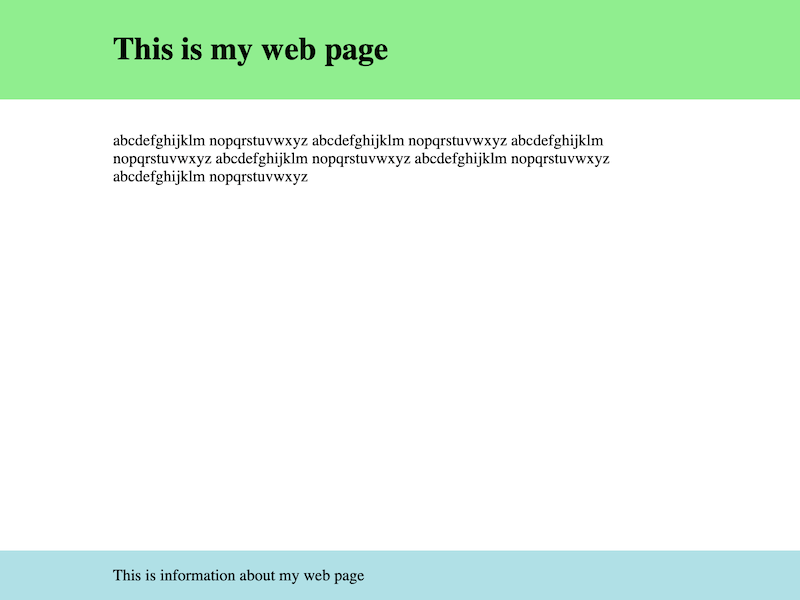
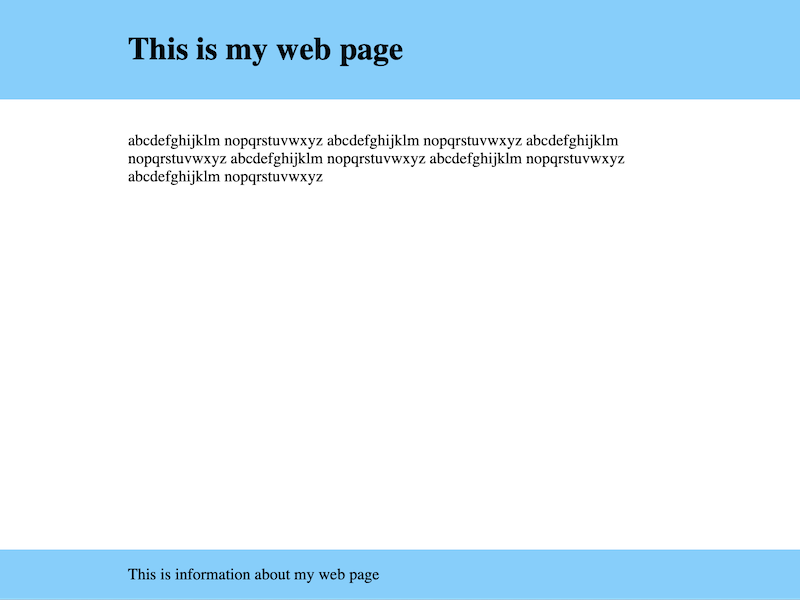
Flesh out the README; expand slightly

Changed region(s): [[0.0, 0.0, 1.0, 0.18], [0.0, 0.9, 1.0, 1.0], [0.125, 0.21, 0.7812, 0.33]]

diff --git a/TEMPLATE.html b/TEMPLATE.html
@@ -12,8 +12,8 @@
 
   <style>
     :root {
-      --header-background-color: LightGreen;
-      --footer-background-color: PowderBlue;
+      --header-background-color: LightSkyBlue;
+      --footer-background-color: LightSkyBlue;
 
       --max-width: 34rem;
       --padding:   1em;
@@ -56,6 +56,11 @@
 
   <main>
     <p>
+      <!--
+        These repeated alphabets are here to help me judge line lengths
+        once I've selected fonts -- I typically aim for between 2½ to 3½
+        alphabets on a line.
+      -->
       abcdefghijklm nopqrstuvwxyz
       abcdefghijklm nopqrstuvwxyz
       abcdefghijklm nopqrstuvwxyz

diff --git a/README.md b/README.md
@@ -1,6 +1,6 @@
 # web-page-template
 
-This is the one-column layout I use as a starting point when I design new web pages.
+This is a template I use as a starting point when I create new HTML pages.
 
 <table>
   <tr>
@@ -8,3 +8,31 @@ This is the one-column layout I use as a starting point when I design new web pa
     <td><img src="screenshot.png"></td>
   </tr>
 </table>
+
+Features:
+
+*   My preferred one-column layout for content, which puts a header/footer at the top and puts the content in the middle.
+*   The standard `<meta>` tags I want on every HTML page.
+*   An example of how to use `<script>` and `<link>` tags to load external files (because I always forget the exact syntax)
+
+## Usage
+
+Copy the contents of `TEMPLATE.html` into a new HTML file.
+
+I have a text expansion snippet in Alfred that inserts this template: when I type `!html`, I get this HTML template.
+
+## Motivation
+
+This layout isn't perfect, but it's pretty good and covers a wide variety of use cases.
+I prefer it to the default browser styles you get in a completely new HTML file.
+
+I used to copy the HTML and CSS from project-to-project, but it was difficult to know what was part of my basic layout, and what was project-specific.
+I also had no canonical definition of this basic layout, and I didn't apply fixes and improvements consistently.
+
+Creating a single template gives me something a canonical version that's easier to copy/paste.
+It's also allowed me to look at this template more carefully, and make sure I'm following best practices.
+
+## Useful reading
+
+*   [The Surprising Truth About Pixels and Accessibility](https://www.joshwcomeau.com/css/surprising-truth-about-pixels-and-accessibility/), by Josh Comeau (2023).
+    This helped me understand the difference between pixels and ems/rems for measurements, and when to use which.
